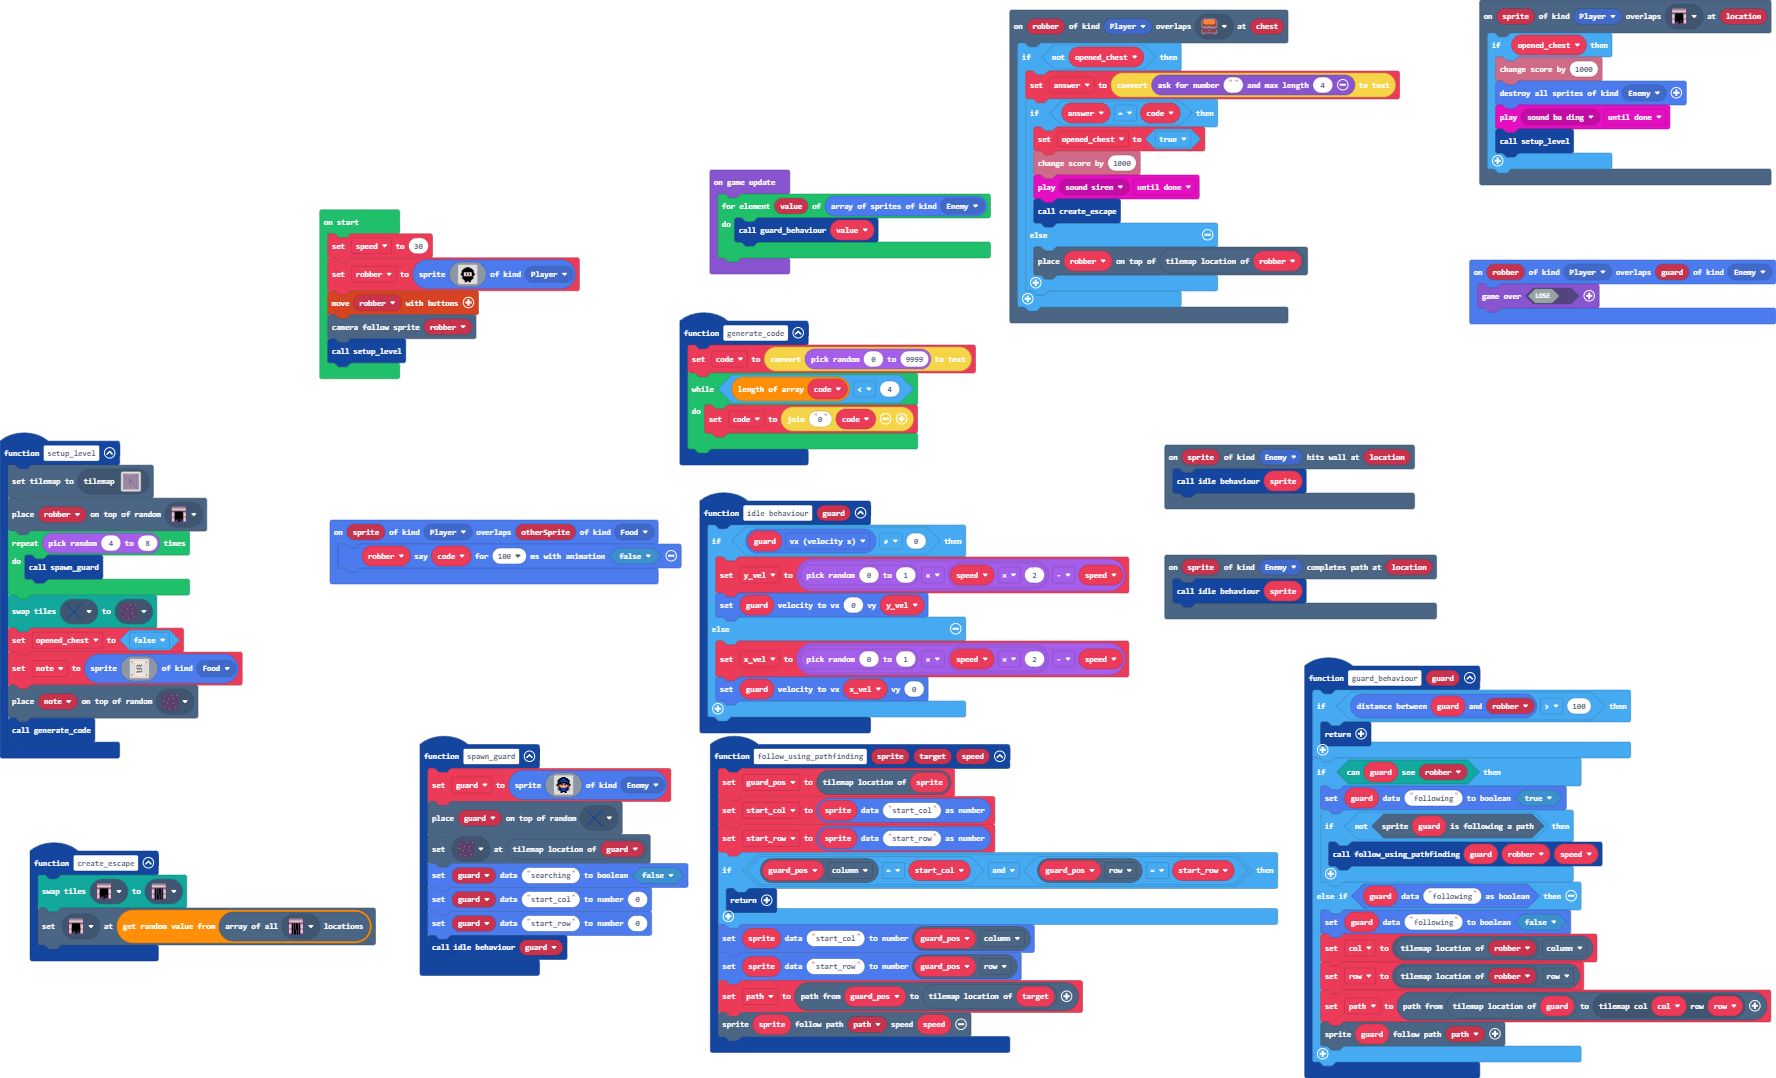
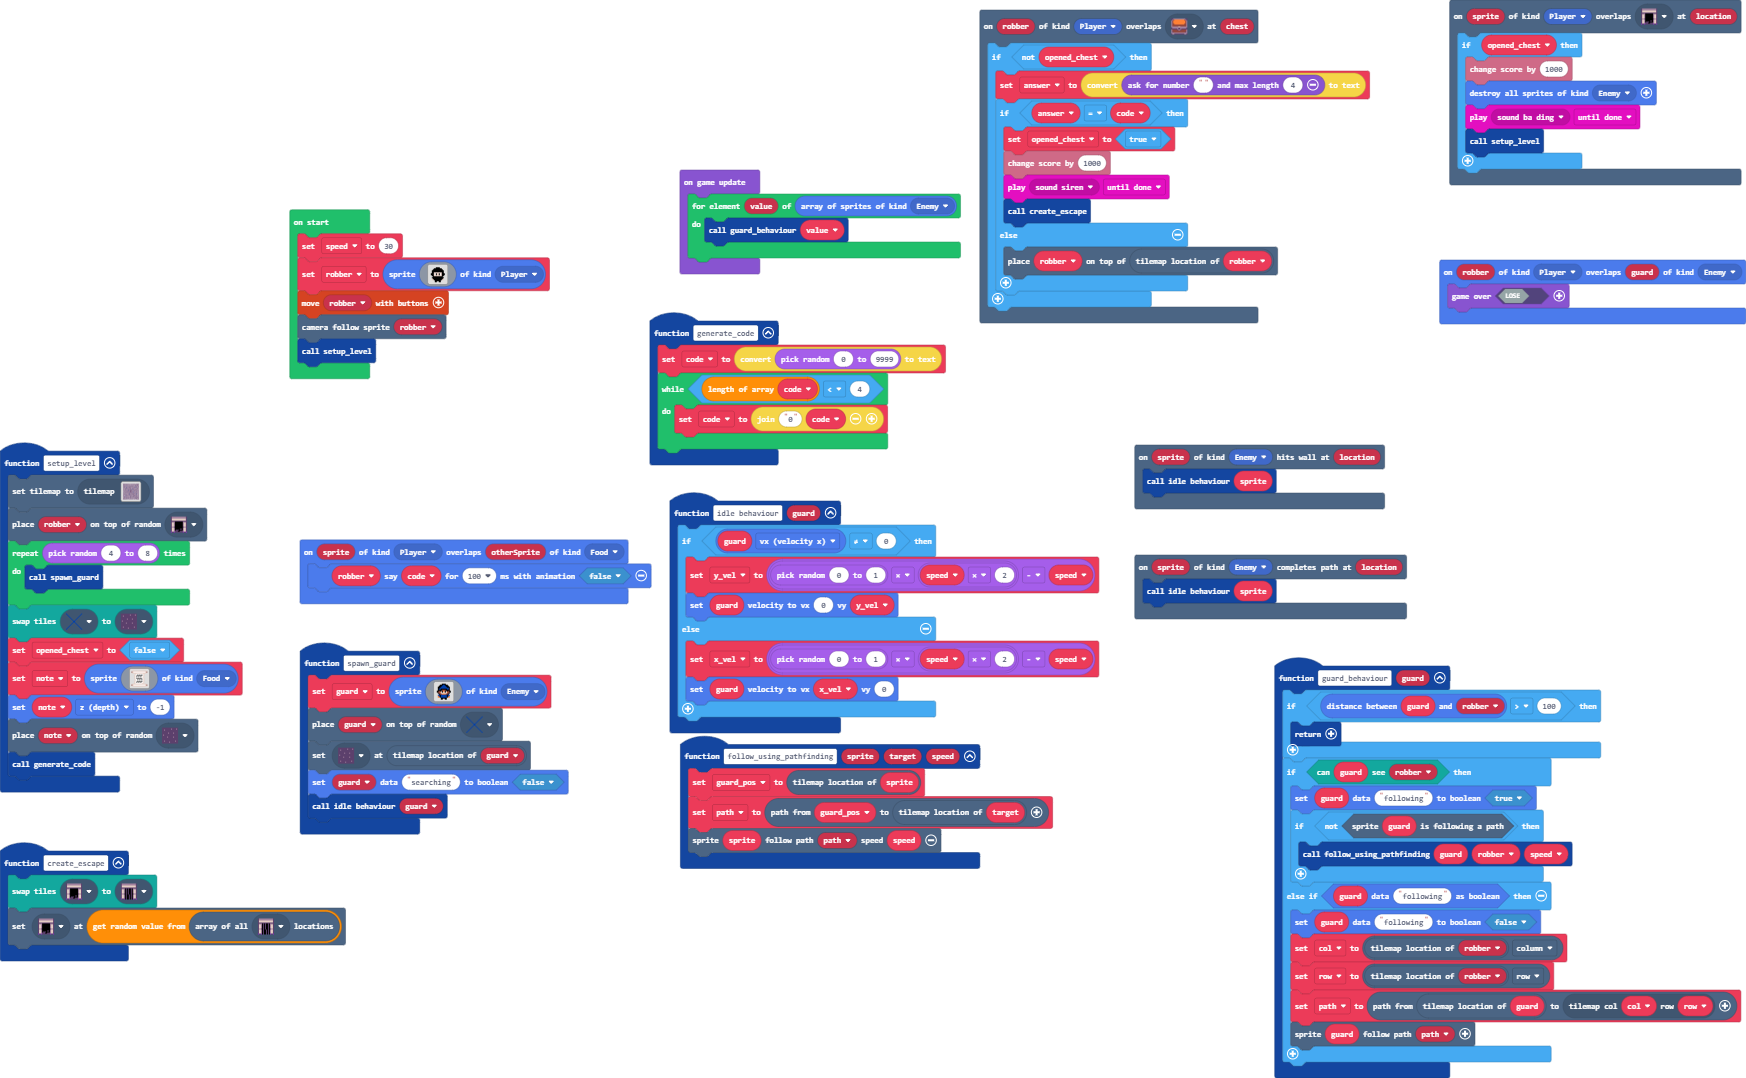
simplified tracking and changed z depth on note

diff --git a/main.ts b/main.ts
@@ -16,13 +16,6 @@ function idle_behaviour (guard: Sprite) {
 }
 function follow_using_pathfinding (sprite: Sprite, target: Sprite, speed: number) {
     guard_pos = sprite.tilemapLocation()
-    start_col = sprites.readDataNumber(sprite, "start_col")
-    start_row = sprites.readDataNumber(sprite, "start_row")
-    if (guard_pos.column == start_col && guard_pos.row == start_row) {
-        return
-    }
-    sprites.setDataNumber(sprite, "start_col", guard_pos.column)
-    sprites.setDataNumber(sprite, "start_row", guard_pos.row)
     path = scene.aStar(guard_pos, target.tilemapLocation())
     scene.followPath(sprite, path, speed)
 }
@@ -42,8 +35,6 @@ function spawn_guard () {
     tiles.placeOnRandomTile(guard, assets.tile`guard spawn`)
     tiles.setTileAt(guard.tilemapLocation(), assets.tile`floor`)
     sprites.setDataBoolean(guard, "searching", false)
-    sprites.setDataNumber(guard, "start_col", 0)
-    sprites.setDataNumber(guard, "start_row", 0)
     idle_behaviour(guard)
 }
 function setup_level () {
@@ -55,6 +46,7 @@ function setup_level () {
     tilesAdvanced.swapAllTiles(assets.tile`guard spawn`, assets.tile`floor`)
     opened_chest = false
     note = sprites.create(assets.image`note`, SpriteKind.Food)
+    note.z = -1
     tiles.placeOnRandomTile(note, assets.tile`floor`)
     generate_code()
 }
@@ -108,8 +100,6 @@ let note: Sprite = null
 let guard: Sprite = null
 let opened_chest = false
 let path: tiles.Location[] = []
-let start_row = 0
-let start_col = 0
 let guard_pos: tiles.Location = null
 let x_vel = 0
 let y_vel = 0
